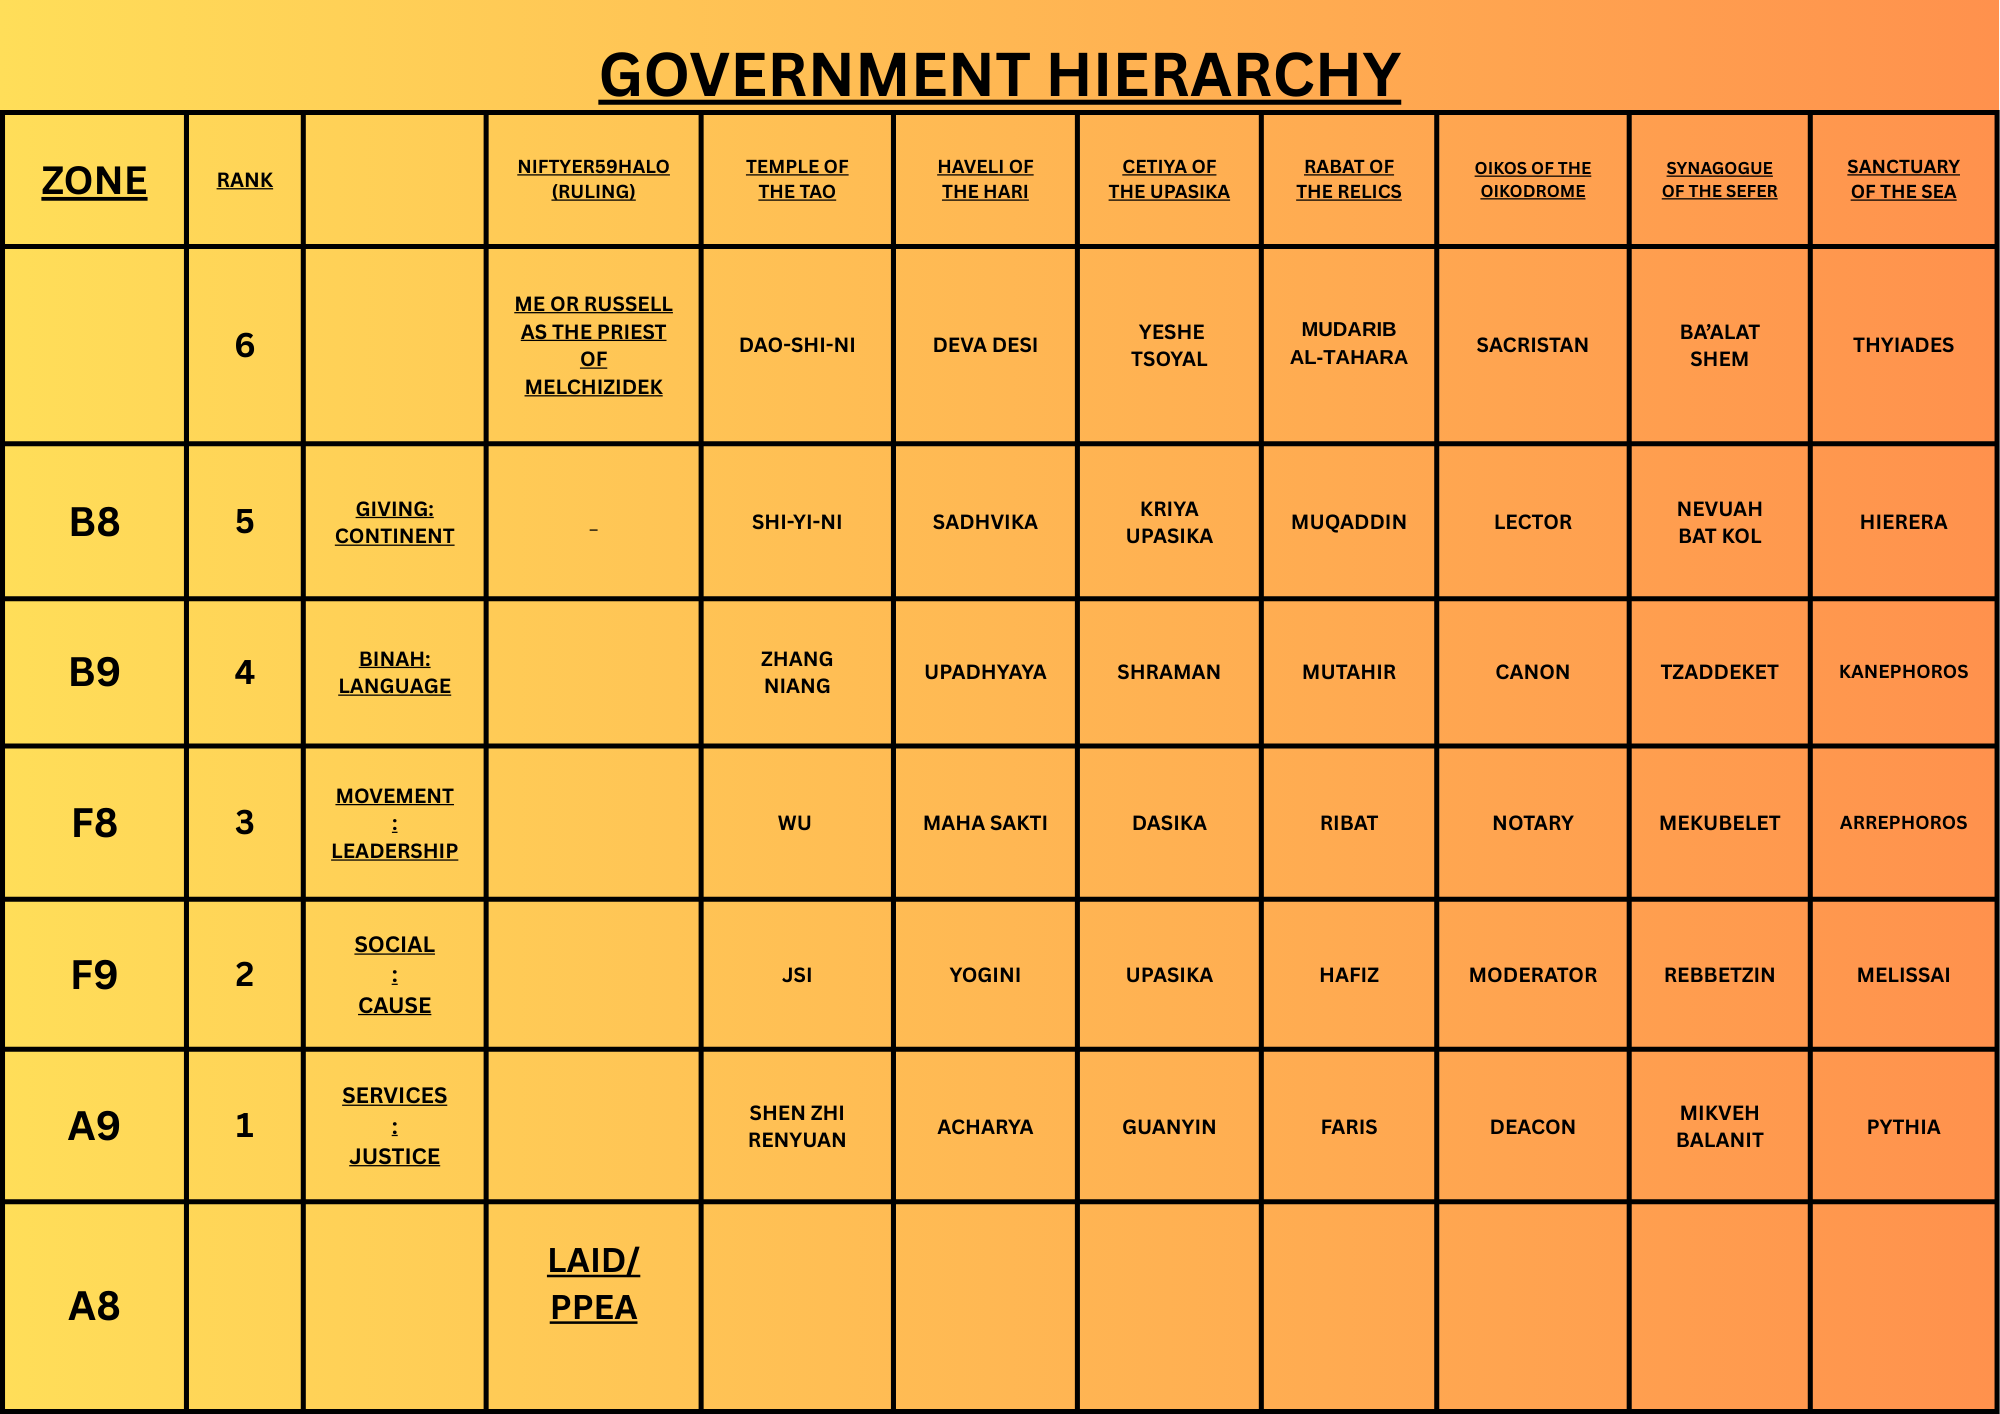
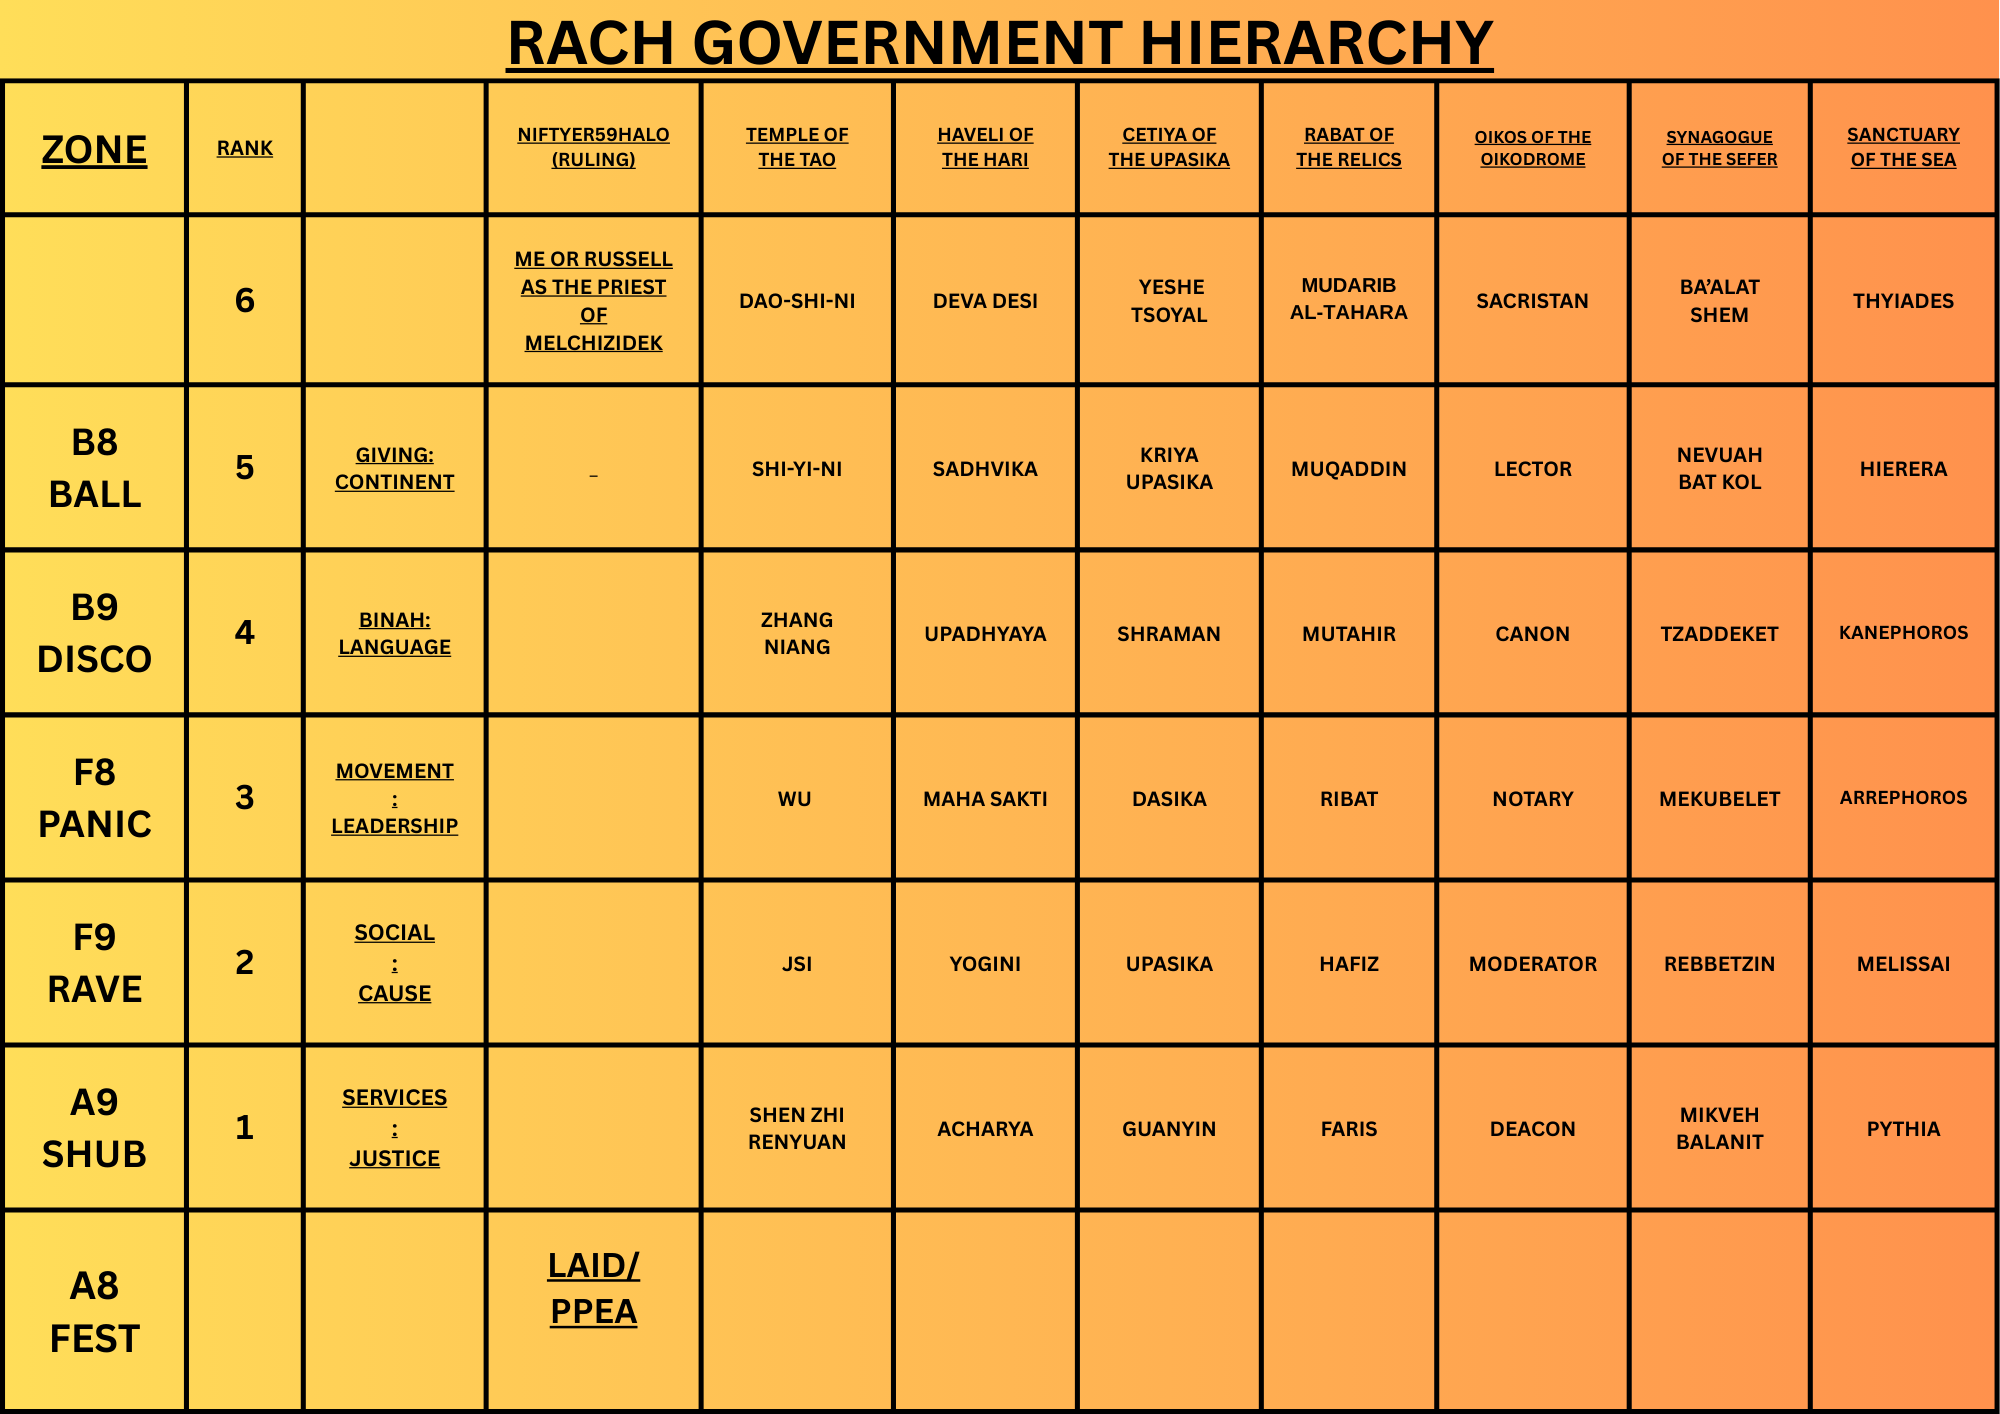
Starting the 5th of March day changes.

diff --git a/src/App.js b/src/App.js
@@ -5260,7 +5260,7 @@ There are 331,068 priestesses worldwide, calculated as 3 priestesses per town. E
   
    const metric5 = [
   { id: 1, title: "Sea Village (Pyramid)", text:"The total number of Sea Villages to be constructed is 12976. They will be designed to have a capacity of 29542 meaning that the total Sea Village capacity is 383336992 people. The clever part of their design is that they go as far down as they are built up. It has a pyramid shape above the water and is flipped to be the shape whether under the sea(floats) or the seabed(embedded). It is populated by blacks. "},
-  { id: 2, title: "Hidalgo and Thana", text:"The Hidalgos and the Thanas are the residences of LAID and Priestesses. LAID live in the Hidalgo and the Priestesses live in the Thana. The Capital Hidalgos and the Thanas are home to 141 genetically engineered 'super' women clones each for a total of 2820 women. They are super in that they have boosted intelligence and health. Those who live within the Hidalgos and Thanas are allowed to travel to any Hidalgo or Thana in the world."},
+  { id: 2, title: "Hidalgo and Thana", text:"The Hidalgos and the Thanas are the residences of LAID and Priestesses. LAID live in the Hidalgo and the Priestesses live in the Thana. The Capital Hidalgos and Thanas are home to 141 genetically engineered 'super' women clones each for a total of 2820 women. They are super in that they have boosted intelligence and health. Those who live within the Hidalgos and Thanas are allowed to travel to any Hidalgo or Thana within their PANIC at will except from those at the capital who remain their coducting super research. Hidalgos and Thanas are designed/constructed using the PATH SHIFT principle. PATH= [Pokemon Gardens, Arts Center, Tibet, Holoworld], SHIFT = [Stadium, Houses, Institute, Factory Plaza, Tibet]."},
   { id: 3, title: "Wola, Eshkol, Shefa, Hromoda and Grad and Burg (LAMP)", text:"The Wola, Eshkol, Shefa, Hromoda, Grad and Burg form the Lamp of a CLT governed by the Cetiya of the Upasika. The Wola is yellow, the Eshkol is yellow, the Shefa is white and yellow, the Hromada is white and yellow the Grad is whites and the Burg is white." },
   { id: 4, title: "Ham, Alber, Mish, Kent and Thorpe", text:"The Hamlet, Alber, MIsh, Kent and Thorpe form the Tooth of the CLT goverened by the Haveli of the Hari.It is where browns live.  " },
   { id: 5, title: "Palatinate, Polis, Emirate and Arche ", text:"The Palatinate, Polis, Emirate and Arche are the semi autonomus regions outside of the walls of the main part of a CLT. They are governed by members of NIFTYER59HALO or those who have extreme favour with them. Each is for a different purpose and has a different population. The Polis is full of the politests people of a CLT, the Arche is for female slaves(criminals) and queers, the Emirate is for male slaves(criminals) and city girls(women who gave up on being an acolyte) and the Palatinate is for the temporary acolytes who reside their while on their route."},
@@ -5298,8 +5298,8 @@ const panels5 = Array.from({ length: 5 }).map((_, i) => ({
           image: "/images/religious/gfs.png"
         },
         {
-          title: "Positioning",
-          text: "Power flows toward precision and structure.",
+          title: "World Wide Vacations",
+          text: "Travel historically has been a disruptor, that is why people will remain within their FEST unless they are acolytes which permits worldwide travel along the route. The rules for travel regarding members of the RACH government is LAID can travel anywhere within their PANIC, leave their BALL and DISCO once a year.  ",
           image: "/images/schedule2.jpg"
         }
       ]
